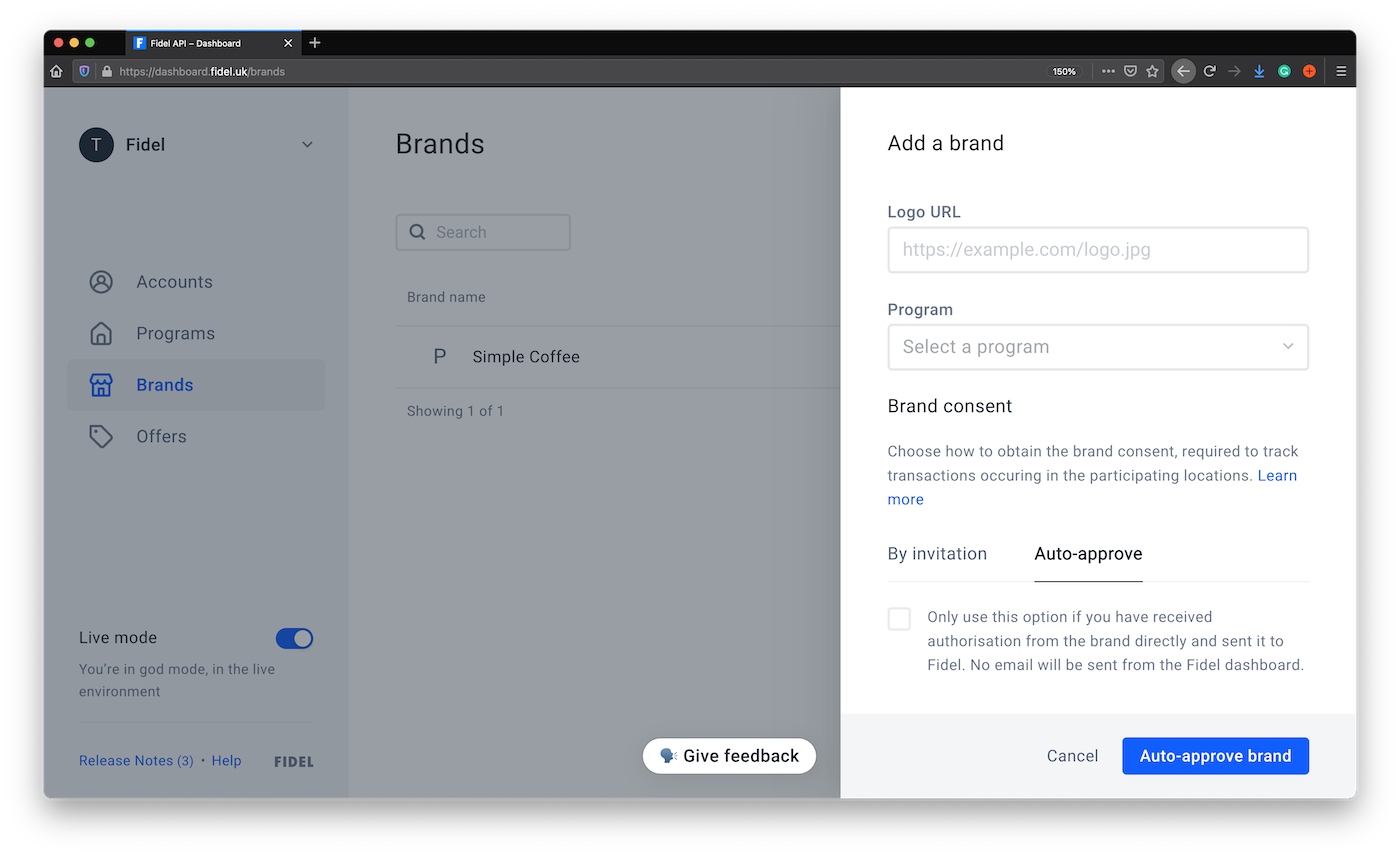
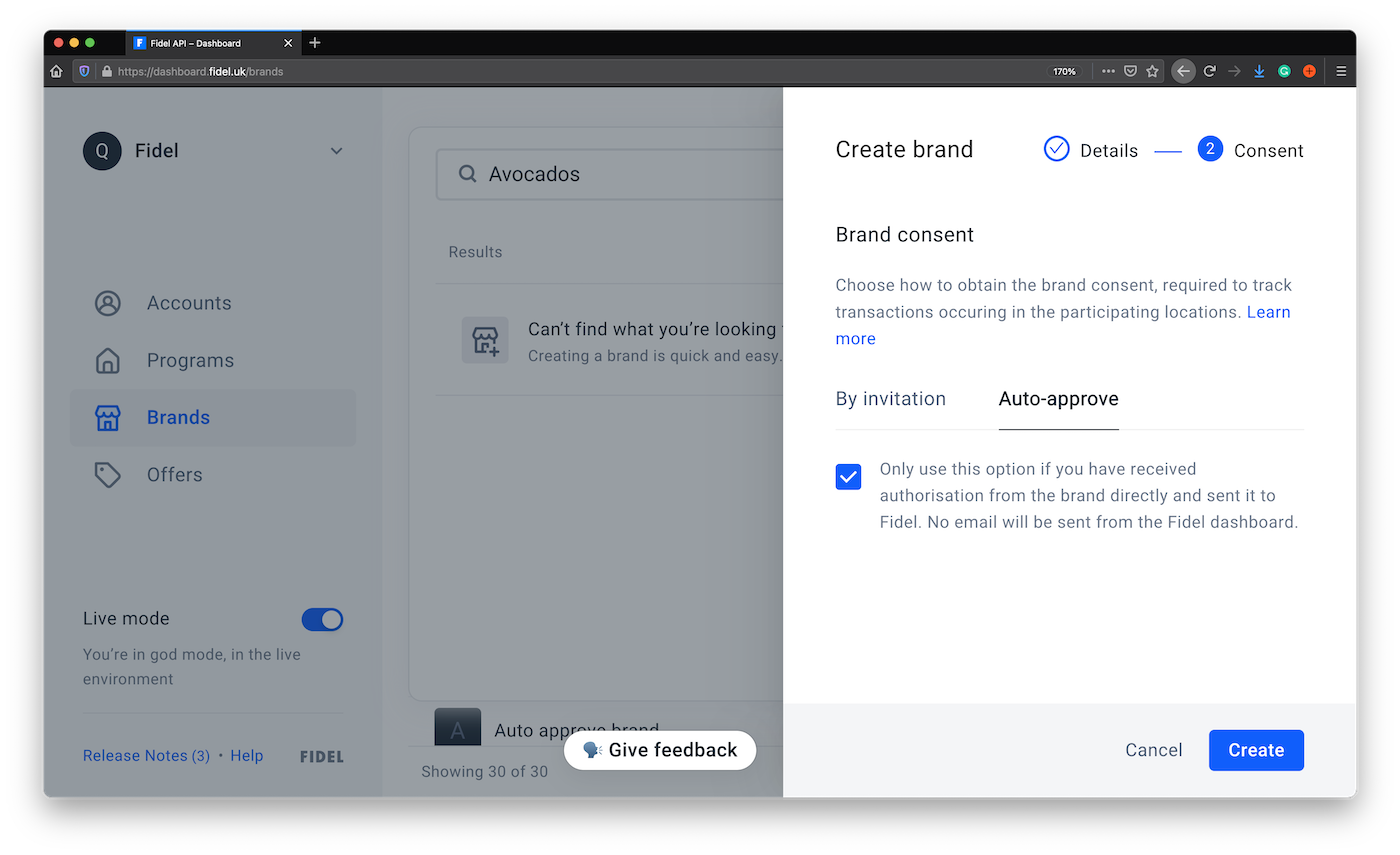
Update Brands Docs for Unique Brands

diff --git a/brands.md b/brands.md
@@ -2,18 +2,16 @@
 
 After creating an account and getting access to the dashboard, the next step is to create a test **Brand** (Merchant). This lets you create locations and add them to a Program so you can start tracking transactions.
 
-
-
 The **Brand** object is used to aggregate locations and keep track of the Brand consent. To track real-time transactions at a Brand's locations, you need to obtain consent from authorised personnel (Brand Contact), and provide the Brand with access to view transactional data. You can do this when creating the Brand (see below).
 
 Once you create a **Brand**, it cannot be deleted.
 
 ## Create Brand
 
-![Create brand](https://raw.githubusercontent.com/FidelLimited/docs/master/assets/images/create-brand.png "Create brand")
+![Create brand](https://raw.githubusercontent.com/FidelLimited/docs/master/assets/images/create-brand.gif "Create brand")
 
 
-To create a new Brand, go to the [Brands](https://dashboard.fidel.uk/brands) page on the Fidel Dashboard, click the **New brand** button and enter a name. Optionally, you can add a link to the brand logo (Note: the logo cannot be added later).  You can also [create a Brand](https://reference.fidel.uk/reference#create-brand) with the API:
+To add a new Brand, go to the [Brands](https://dashboard.fidel.uk/brands) page on the Fidel Dashboard, click the **Add a brand** button and enter a name. If you can't find the brand in the Fidel Dashboard, you can create a new one. Optionally, you can add a link to the brand website and logo (Note: the links cannot be added later using the Dashboard). You can also [create a Brand](https://reference.fidel.uk/reference#create-brand) with the API:
 ```bash
 curl -X POST \
   https://api.fidel.uk/v1/brands \
